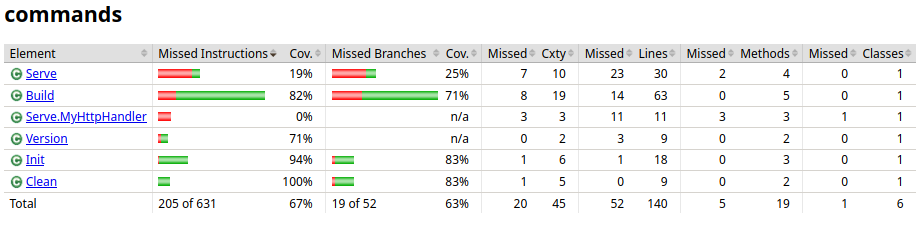
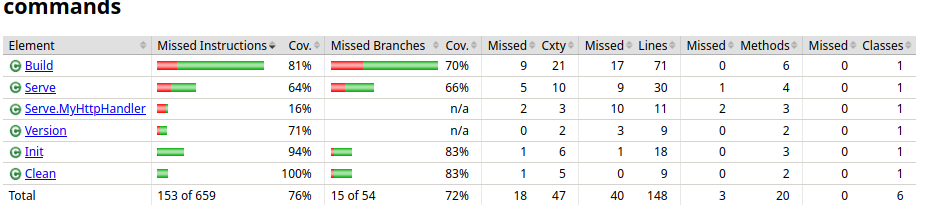
Etoffer le portfolio encore un peu plus

Changed region(s): [[0.0, 0.169, 1.0, 0.6479], [0.0, 0.6761, 1.0, 0.9577], [0.0, 0.0, 0.1517, 0.1127]]

diff --git a/portfolio.md b/portfolio.md
@@ -107,19 +107,19 @@ Nous avons utilisé un kanban pour organiser nos tâches avec les colonnes suiva
 
 ## Récapitulatif des stories et des issues qui y sont reliées
 
-Voici un tableau reprenant chaque storie et qui montre les différentes issues qui y sont liées. Pour chaque storie, nous avons ajouté son état actuel ainsi que d'éventuelles remarques.
+Voici un tableau reprenant chaque story et qui montre les différentes issues qui y sont liées. Pour chaque story, nous avons ajouté son état actuel ainsi que d'éventuelles remarques.
 
 | **Stories**                                        | **Tasks liées à la storie**                                                                                                                                                                                                              | **Etat Actuel** | **Remarques**                                                                                                                                                                                                                                                                                                                                                                              |
 |----------------------------------------------------|------------------------------------------------------------------------------------------------------------------------------------------------------------------------------------------------------------------------------------------|-----------------|--------------------------------------------------------------------------------------------------------------------------------------------------------------------------------------------------------------------------------------------------------------------------------------------------------------------------------------------------------------------------------------------|
-| Saisie des données structurées #14                 | il n'y a pas de task liée à cette story                                                                                                                                                                                                  | Terminé         | Pas de code nécessaire pour cette story                                                                                                                                                                                                                                                                                                                                                    |
-| Saisie du contenu #15                              | il n'y a pas de task liée à cette story                                                                                                                                                                                                  | Terminé         | Pas de code nécessaire pour cette story. Nous avons choisi de faire du md                                                                                                                                                                                                                                                                                                                  |
-| Format des pages #16                               | il n'y a pas de tasks liée à cette story                                                                                                                                                                                                 | Terminé         | Pas de code nécessaire pour cette story                                                                                                                                                                                                                                                                                                                                                    |
+| Saisie des données structurées #14                 | Il n'y a pas de task liée à cette story                                                                                                                                                                                                  | Terminé         | Pas de code nécessaire pour cette story                                                                                                                                                                                                                                                                                                                                                    |
+| Saisie du contenu #15                              | Il n'y a pas de task liée à cette story                                                                                                                                                                                                  | Terminé         | Pas de code nécessaire pour cette story. Nous avons choisi de faire du md                                                                                                                                                                                                                                                                                                                  |
+| Format des pages #16                               | Il n'y a pas de tasks liée à cette story                                                                                                                                                                                                 | Terminé         | Pas de code nécessaire pour cette story                                                                                                                                                                                                                                                                                                                                                    |
 | Affichage de la version #17                        | #26 implémenter l'option -version en utilisant picocli                                                                                                                                                                                   | Terminé         |                                                                                                                                                                                                                                                                                                                                                                                            |
 | Initialiser un site statique #18                   | #30 Implémenter la méthode init à l'aide de picocli                                                                                                                                                                                      | Terminé         |                                                                                                                                                                                                                                                                                                                                                                                            | 
 | Compiler un site statique #19                      | #31 Implémenter la méthode build à l'aide de picocli                                                                                                                                                                                     | Terminé         |                                                                                                                                                                                                                                                                                                                                                                                            |
-| Nettoyer un site statique #20                      | #27 Implémenter la méthode clean à l'aide de picocoli                                                                                                                                                                                    | Terminé         |                                                                                                                                                                                                                                                                                                                                                                                            |
+| Nettoyer un site statique #20                      | #27 Implémenter la méthode clean à l'aide de picocli                                                                                                                                                                                     | Terminé         |                                                                                                                                                                                                                                                                                                                                                                                            |
 | Améliorer l'intégration continue #21               | #29 Faire un merge plus restrictif                                                                                                                                                                                                       | Terminé         |                                                                                                                                                                                                                                                                                                                                                                                            |
-| Release et documentation #23                       | #28 Paramétrer la génération de release et gérer la documentation, <br/>#34 Création automatique d'une release, <br/>#35 Création de la documentation pour l'installation                                                                | Terminé         |                                                                                                                                                                                                                                                                                                                                                                                            |
+| Release et documentation #23                       | #34 Création automatique d'une release, <br/>#35 Création de la documentation pour l'installation                                                                                                                                        | Terminé         |                                                                                                                                                                                                                                                                                                                                                                                            |
 | Server HTTP #60                                    | #62 Implémenter la commande serve à l'aide de picocli                                                                                                                                                                                    | Terminé         |                                                                                                                                                                                                                                                                                                                                                                                            |
 | Moteur de template #61                             | #66 Faire des recherches, <br/>#67 Faire la transition, <br/>#68 Modifier la commande init, <br/>#69 Modifier la commande build, <br/>#70 Factoriser la génération des pages HTML, <br/>#74 Feature changement a handlebar pour le build | Terminé         |                                                                                                                                                                                                                                                                                                                                                                                            |
 | Génération du site statique à la volée #81         | #91 Implémenter l'interface Watch qui permettra l'appel de l'option --watch                                                                                                                                                              | Terminé         |                                                                                                                                                                                                                                                                                                                                                                                            |
@@ -133,6 +133,7 @@ Voici un tableau reprenant chaque storie et qui montre les différentes issues q
 
 Grâce à ce tableau, nous réalisons qu'il y a une story qui n'est pas terminée. Il s'agit de la story #82 (Publication du site dans un répertoire distant). Cette story nous paraît complexe et pas forcément utile, c'est pourquoi nous avons préféré prioriser les autres stories. Malheureusement, nous arrivons à la fin du projet et nous réalisons que nous n'avons plus le temps d'accomplir cette demande du client. Si c'était à refaire nous n'aurions pas dû repousser le traitement de cette story aussi longtemps, car si elle avait été prise en charge plus tôt nous aurions pu la terminer. Nous avons été pris de cours par les autres cours, les tests de fins de semestre et la charge de travail générale, ce qui explique notre incapacité à terminer l'entièreté du cahier de charge. 
 
+En termes de complexité, on remarque en observant le tableau que nous avons jugé la plupart des stories nous semblaient suffisamment simples pour etre réalisées en une seule tache. Pour la story #23, nous avons jugé pertinent de la séparer en 2 taches, une pour la documentation et une pour la release automatique. Pour la story #61, cette story était de loin la plus complexe de tout le projet. Nous l'avons séparée en 6 taches afin de pouvoir travailler en petites étapes. 
 
 ## Troubleshooting
 
@@ -151,8 +152,6 @@ Cette section contient les différents problèmes que nous avons encourus, les s
 ## Comparaison entre les temps attendus et les temps effectués
 
 Ce tableau reliant les tasks avec le temps estimé et le temps nécessaire à chaque issue. L'objectif est d'avoir ces résultats regroupés afin de pouvoir faire une analyse plus appronfondie du temps nécessaire aux différentes tâches et le degré de complexité des issues de manière à pouvoir avoir un retour sur les parties qui ont le plus posées problème et celle qui au contraire, ce sont déroulées avec facilité.
-
-TODO ajouter une colonne complexité ? Ou ajouter des commentaires ?
 
 | **Task**                                                                                                                                                    | **Temps pessimiste** | **Temps attendu** | **Temps optimiste** | **Temps réel** | **Remarques**                                                                                                 |
 |-------------------------------------------------------------------------------------------------------------------------------------------------------------|----------------------|-------------------|---------------------|----------------|---------------------------------------------------------------------------------------------------------------|
@@ -272,7 +271,7 @@ Actuellement le watch service fonctionne et les commandes build et serve l'ont i
 nous avons décidé de proposer une fonction qui prend en paramètre un chemin et un Callable, la méthode call de ce dernier est appelée lorsqu'un changement est détecté dans le dossier indiqué par le chemin ou un sous répertoire.
 Nous avons rencontré un problème avec le template de pulls request. Il ne s'applique pas comme il le devrait. Nous n'avons donc pas pu utiliser un template de pull request à remplir. Ce qui nous a empêché de faire certaines pulls request. Ce bug a impliqué que nos pulls request n'ont pas toutes le même format.
   
-### A continuer au prochain sprint
+### À continuer au prochain sprint
   
 Nous n'avons pas pu avancer beaucoup sur nos tâches. Cela est dû au manque de temps et à la quantité de travail qui devient de plus en plus importante. 
 Etant donné la situation, nous nous sommes réuni pour discuter des problématiques rencontrées lors de ce sprint. Nous avons cerné le fait que ce sprint 3 n'avait pas été mis suffisamment en priorité par rapport à d'autres tests et laboratoires et que cela devait changer afin que le travail fournit au sprint 4 puisse être suffisant. 
@@ -328,11 +327,11 @@ Nous avons mis en place Jacoco afin d'avoir un feedback sur le coverage de nos t
 
 ![Coverage général](Image/cov_gen.png)
 
-Nous pouvons observer que nous avons un total de 73% de notre code qui est couvert par les tests, ce qui n'est ni excellent, ni mauvais. Nous aurions pu produire plus de tests afin d'augmenter le coverage, mais le temps nous a fait défaut.
+Nous pouvons observer que nous avons un total de 79% de notre code qui est couvert par les tests, ce qui est relativement bon. Nous aurions pu produire plus de tests afin d'augmenter le coverage, mais le temps nous a fait défaut.
 
 ![Coverage commands](Image/cov_commands.png)
 
-Dans le package commands, on observe que c'est principalement Serve qui manque de tests. Cela est dû au fait que nous ne savions pas vraiment comment tester l'accessibilité du site après avoir fait appel à Serve.
+Dans le package commands, on observe que c'est principalement Serve qui manque de tests, plus particulièrement la classe interne Serve.MyHttpHandler avec uniquement 16% de coverage.
 
 ![Coverage utils](Image/cov_utils.png)
 
@@ -354,17 +353,18 @@ Durant ce sprint, nous avons également mis en place de la Javadoc afin d'avoir 
 
 TODO schéma ?
 
+### TDD
+
+Nous avons réalisé un peu trop tard que le TDD était une des demandes pour le projet. Au moment où nous avons voulu le mettre en place, nous n'avions plus rien à coder. Nous n'avons pas appliqué le TDD à proprement parlé, mais dans les sprints précédents nous avons beaucoup communiqué avant de commencer l'implémentation de certaines classes, nous avons discuté ensemble de ce que devait faire la classe et de comment nous pouvions la tester, ce qui se rapproche plus ou moins d'un développement test-driven.
+
 ## Commentaires finaux
 
-TODO étoffer
+Pour conclure, nous voulions effectuer quelques commentaires d'ensemble sur le projet et son déroulement. Nous sommes conscients du fait que notre gestion du processus n'était pas toujours idéale. Nous avons parfois manqué de discipline principalement dû au fait que nous avons été submergés par la charge de travail de ce semestre. Nous avons souvent mis la priorité sur les autres cours, délaissant le projet, ce qui nous a porté préjudice, notamment sur les points suivants :
 
-* Processus pas toujours respecté (assignation, utilisation du template pour les issues, format de la PR, messages de commit, estimations de temps + temps réel) => manque de discipline aussi du au fait qu'on a pas beaucoup de temps et qu'on a un peu délaissé le projet vers la fin
-* Reviews pas toujours assidus
-* Tache qu'il nous reste à faire, pourquoi on l'a pas fait (publish)
-* Commentaire sur le fait que sur la fin on a été beaucoup plus régulier sur les estimations de temps, que c'était quasi systématique
-* Test-first programming TODO bs avec du pseudocode ? Ou dire la vérité ?
-* Manque de régularité dans les commits, de nouveau toujours lié à la charge de travail des autres cours
+* L'assignation des taches à des personnes et le déplacement des issues dans le Kanban n'était pas fait systématiquement, ou parfois en retrospective. 
+* Nous oublions parfois d'utiliser le template mis en place pour les issues, ce qui se répercutait également sur les estimations de temps qui manquaient parfois
+* Le format discuté pour les PRs n'a pas toujours été respecté, ce qui se répercutait également sur le temps réel qui n'était pas toujours documenté.
 
-## Manuel utilisateur
+Malgré tous ces petits soucis de discipline, nous sommes tout de meme satisfaits globalement avec la manière dont nous avons géré le processus. Ça n'a pas toujours été parfait, mais nous nous sommes améliorés avec le temps, et à long terme nous aurions certainement pu appliquer les différents stratagèmes de manière totalement automatique.
 
-TODO màj le manuel utilisateur
+Ce projet nous a permis d'appliquer les principes vus en cours dans un contexte tout à fait concret, et nous sommes maintenant bien plus à l'aise avec l'organisation de projet en groupe. Nous sommes tous globalement satisfaits de notre projet. 
